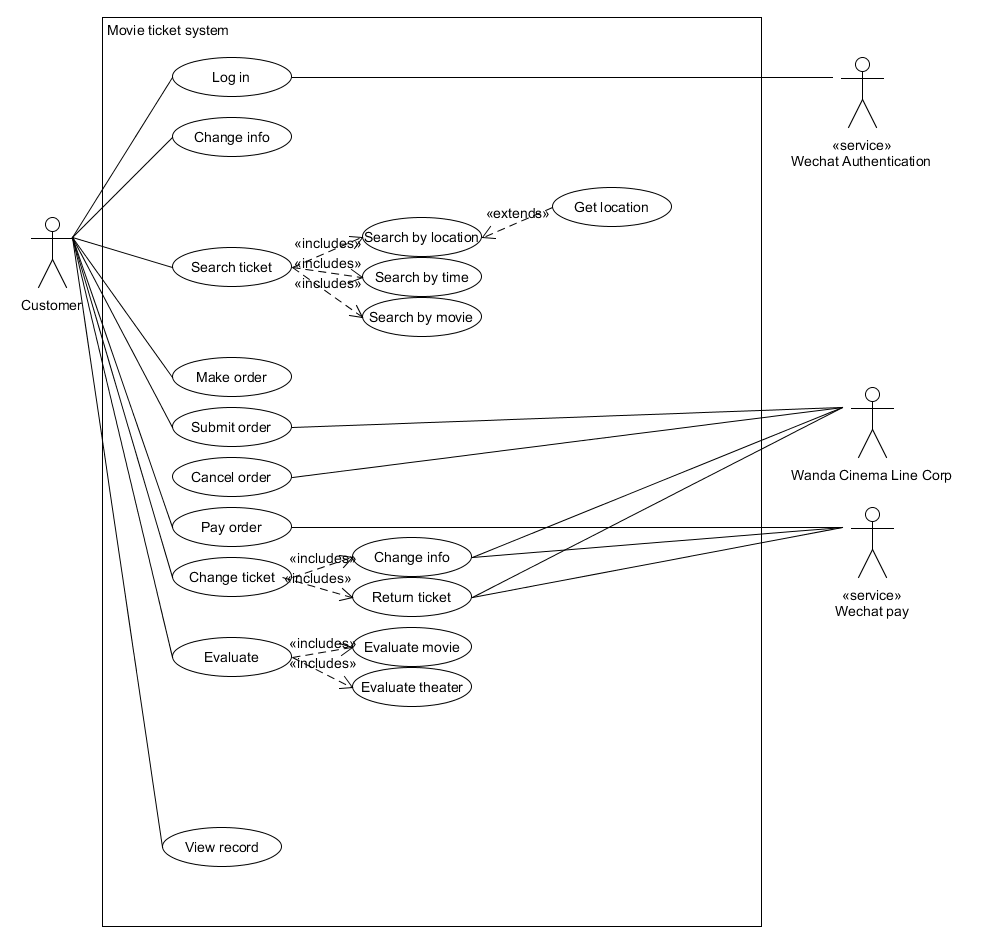
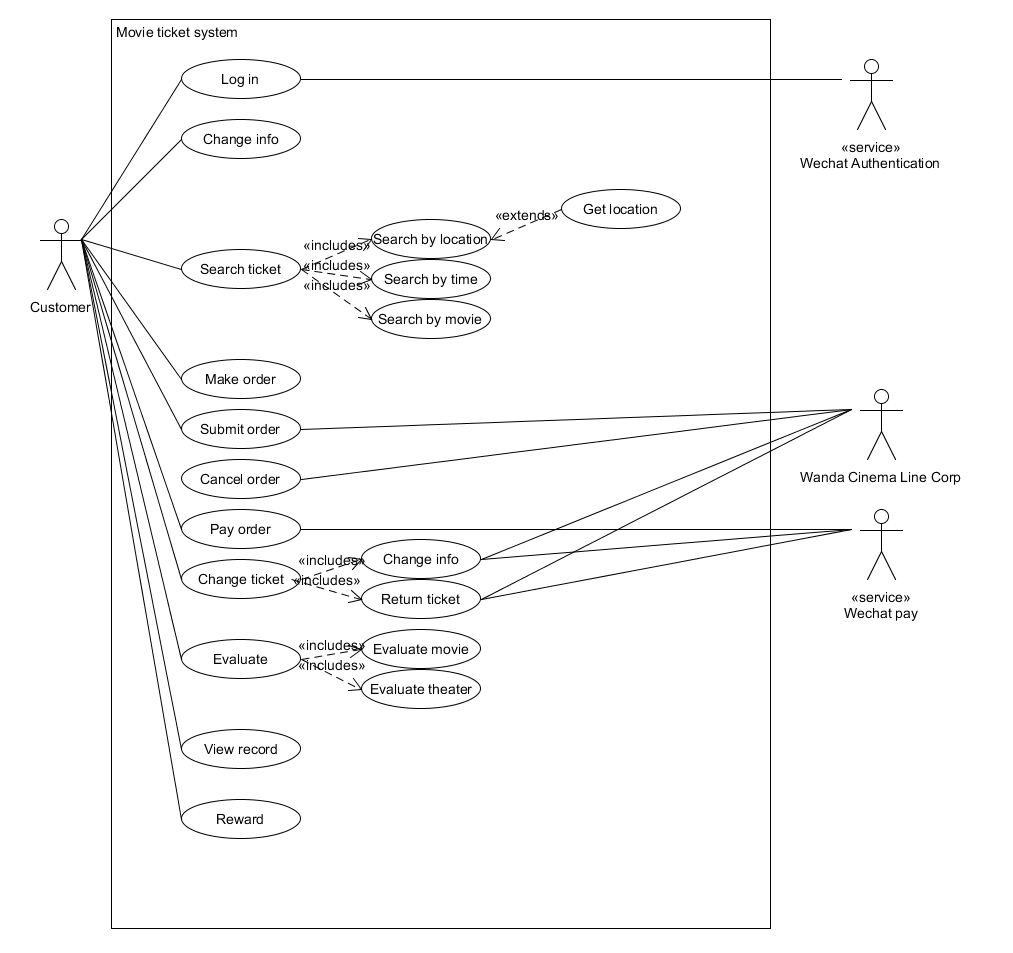
update meeting

Changed region(s): [[0.0306, 0.0, 0.9786, 0.9226], [0.1529, 0.1845, 0.6728, 0.369], [0.0917, 0.9533, 0.7645, 0.9841]]

diff --git a/doc/Meeting_2018_04_08.md b/doc/Meeting_2018_04_08.md
@@ -1,2 +1,44 @@
-# 讨论系统的主要功能、拓展功能以及创新功能
-待完善
+# 讨论系统的功能
+
+时间：2018/03/25
+与会成员：全体队员
+会议目的：讨论系统的功能，并以思维导图形式呈现
+
+## 会议中
+
+我们参考了先前的竞对调研报告和需求分析报告，一致觉得，一个电影票订票系统应该具备以下功能。
+
+#### 基本功能
+1. 登录
+	- 登录是确认身份以及进行支付等操作的必要前提，由于我们决定做一款基于微信平台的小程序，所以登录操作应该交给微信这个第三方啊平台去处理。
+
+2. 更改个人信息
+	- 可以更改个人信息也是必要的。
+
+3. 通过时间、地点或电影名称找到一个合适的电影院中的电影场次
+	- 在其中可能会加入自动获取当前地址（网络地址或者GPS地址）。
+
+4. 创建、提交以及支付订单
+	- 创建订单可以在本地数据库操作，提交订单就需要跟相关的院线进行订票操作了。
+	- 支付方面由微信提供的微信支付处理。
+
+5. 退票
+	- 跟院线联系，取消订单，然后通过微信支付退款。
+
+6. 电影评价
+	- 看过的电影可以进行评价，也可以对影院服务进行评价。
+
+7. 查看自己的电影记录
+
+#### 创新功能
+1. 销售周边
+	- 在搜索一场电影并下单的时候，可以以优惠价格购买电影相关的周边。比如看捉妖记可以优惠买胡巴公仔等。
+	- 可以在买电影票的时候顺便以优惠价格买下该影院销售的爆米花、可乐等产品。
+
+2. 改签系统
+	- 类似于高铁票的改签，考虑到用户需要更改场次的时候需要退票和重新购票两个操作，细化下来就是，取消订单、退款、重新搜索、重新创建订单、重新提交订单、重新支付等一系列操作。但是改签只需要选择新的电影票，系统会帮助用户在后台完成一系列操作。
+
+3. 打赏功能
+	- 在用户觉得这场电影十分好看，这张电影票的价格已经远远超出了预期，并忍不住想打赏的时候，我们的APP会提供打赏通道。
+
+End

diff --git a/README.md b/README.md
@@ -23,7 +23,7 @@ Records of BruMovie development progress.
     - [UI规范](https://brumovie.github.io/Dashboard/doc/UIDemo)
   - meetings
     - [分工大会(2018/03/25)](https://brumovie.github.io/Dashboard/doc/Meeting_2018_03_25)
-    - [讨论系统的主要功能、拓展功能以及创新功能(2018/04/08)](https://brumovie.github.io/Dashboard/doc/Meeting_2018_04_08)
+    - [讨论系统的功能(2018/04/08)](https://brumovie.github.io/Dashboard/doc/Meeting_2018_04_08)
   - Tech/Work Report
     - [15331012-微信web开发者工具入门](https://heimzeng.github.io/2018/04/15/Wechat-web-developing-tool-learning.html)
     - [15331013-微信小程序新手入门宝典](https://joece.github.io/2018/04/15/%E5%BE%AE%E4%BF%A1%E5%B0%8F%E7%A8%8B%E5%BA%8F%E6%96%B0%E6%89%8B%E5%85%A5%E9%97%A8%E5%AE%9D%E5%85%B8.html)

diff --git a/doc/Meeting_2018_03_25.md b/doc/Meeting_2018_03_25.md
@@ -1,2 +1,15 @@
 # 分工大会
-待完善
+
+时间：2018/03/25
+与会成员：全体队员
+会议目的：确定每个人的分工
+
+## 会议中
+我们每个人仔细思考了一下自己的方向与特长，也考虑了自己以后想发展的方向，从而确定自己在一个项目中适合什么职位。
+在历经了十五分钟的思考后，我们做出了如下分工：
+
+- 需求分析：BZT
+- 概要设计 & 详细设计：ZGT、ZJC、BZT
+- 编码 & 测试：
+  - 前端：ZJC、BZT、GY、DXJ、
+  - 后端：ZGT、FDG、GHY
